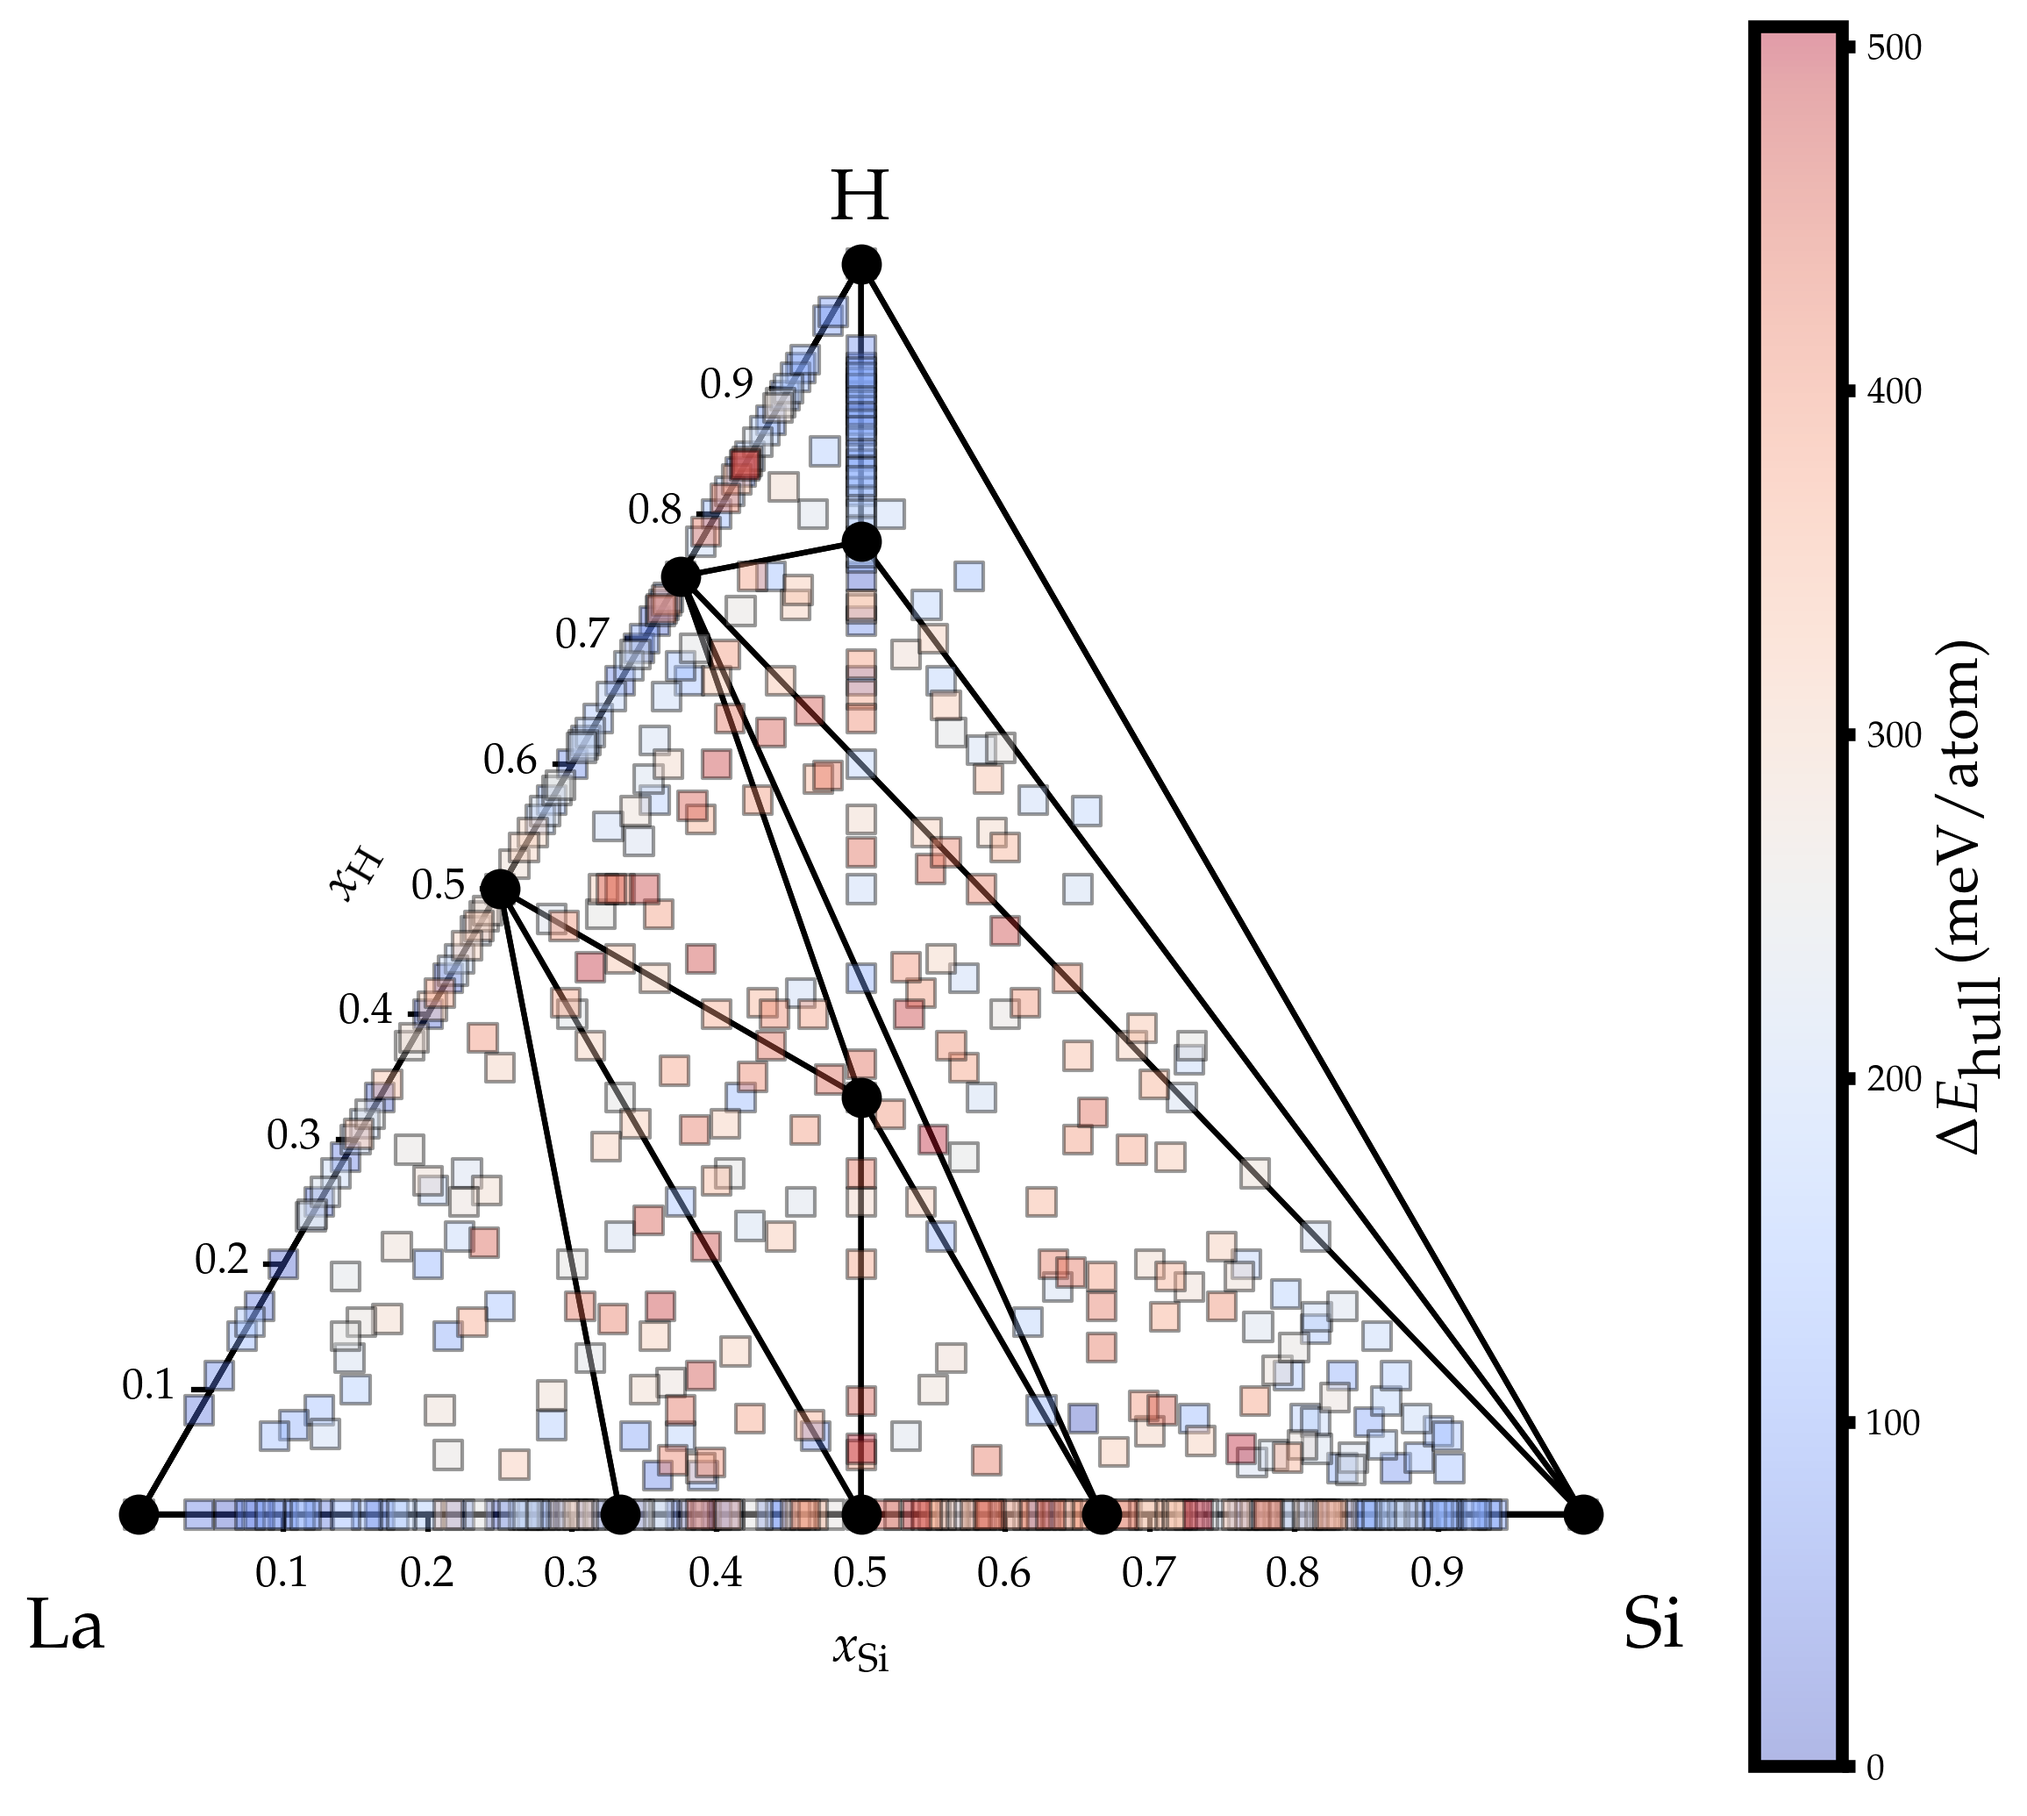
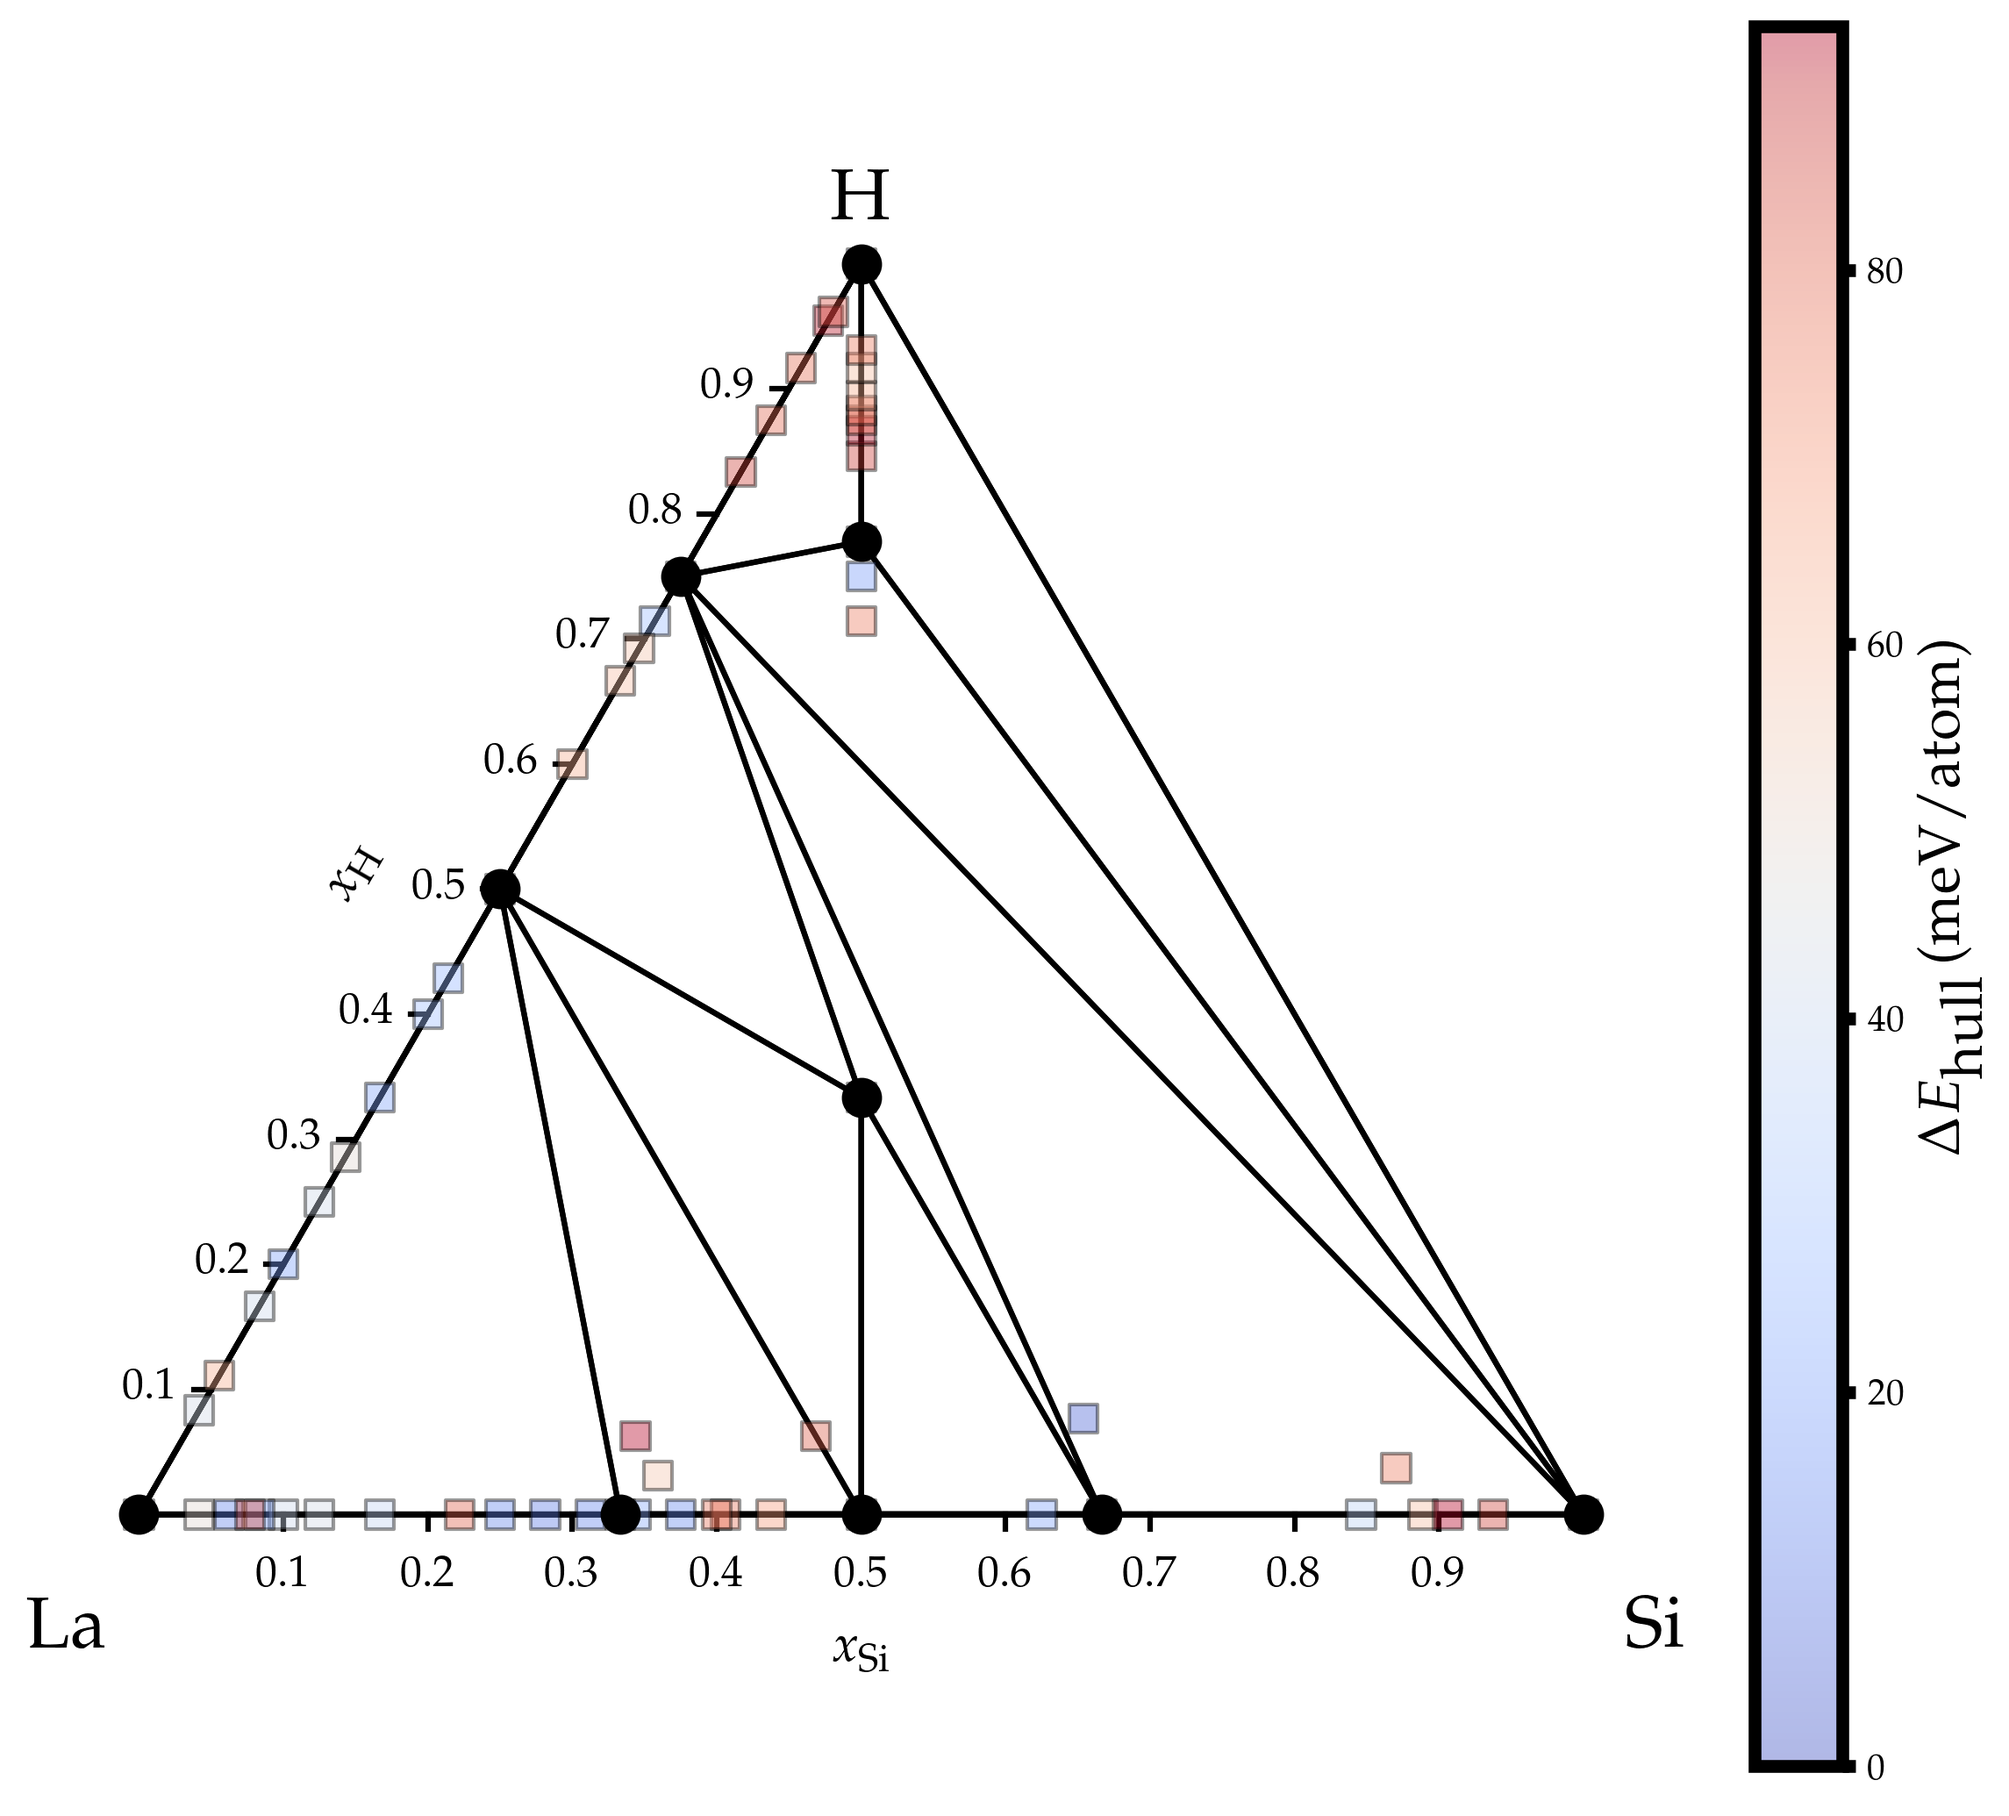
Fixed <= comparison in distances.py

diff --git a/convex_hull.py b/convex_hull.py
@@ -58,20 +58,20 @@ IDs = IDs[energy <= 0]  # getting point IDs
 hull = scipy.spatial.ConvexHull(points)
 
 # findind distances
-distances = distance.dist(hull, debug=True)
+distances = distance.dist(hull)
 
 # creating array with all data
 points = np.column_stack((points, distances, IDs, np.zeros_like(distances)))  # adding column to indicate if point belongs to hull
 points[hull.vertices, -1] = 1  # 1 if in hull, 0 otherwise
 
-# filtering out larger distances
-dmax = np.inf
-points = points[distances <= dmax]
-
 # saving excel file
 df = pandas.DataFrame(points)
 df.to_excel(excel_writer = "20GPa.xlsx")
- 
+
+# filtering out larger distances
+dmax =  100  # np.inf
+points = points[distances <= dmax]
+
 # unpacking filtered data
 x, y, energy, distances, IDs, inhull = points.T
 
@@ -114,8 +114,8 @@ for trio in hull.simplices:
     plt.plot(x1_tri, x2_tri, 'k-')
 
 # creating tooltips
-# gibbs.annotate(data_hull, hullpoints)
-gibbs.annotate(points, allpoints)
+gibbs.annotate(data_hull, hullpoints)
+# gibbs.annotate(points, allpoints)
 
 # SHOW RESULT
 cbar = plt.colorbar(allpoints)

diff --git a/distance.py b/distance.py
@@ -20,7 +20,7 @@ def dist(hull, debug=False):
             trio = hull.simplices[T]
             eq = hull.equations[T]
             Dn = (eq[:-1] @ hull.points[P] + eq[-1]) / eq[2]
-            if Dn < D and Dn > 0:
+            if Dn < D and Dn >= 0:
                 D = Dn
         distances[P] = D
 

diff --git a/convex_hull-minE_only.py b/convex_hull-minE_only.py
@@ -75,7 +75,7 @@ points = np.column_stack((points, distances, IDs, np.zeros_like(distances)))  # 
 points[hull.vertices, -1] = 1  # 1 if in hull, 0 otherwise
 
 # filtering out larger distances
-dmax = np.inf
+dmax = 100 # np.inf
 points = points[distances <= dmax]
 
 # saving excel file
